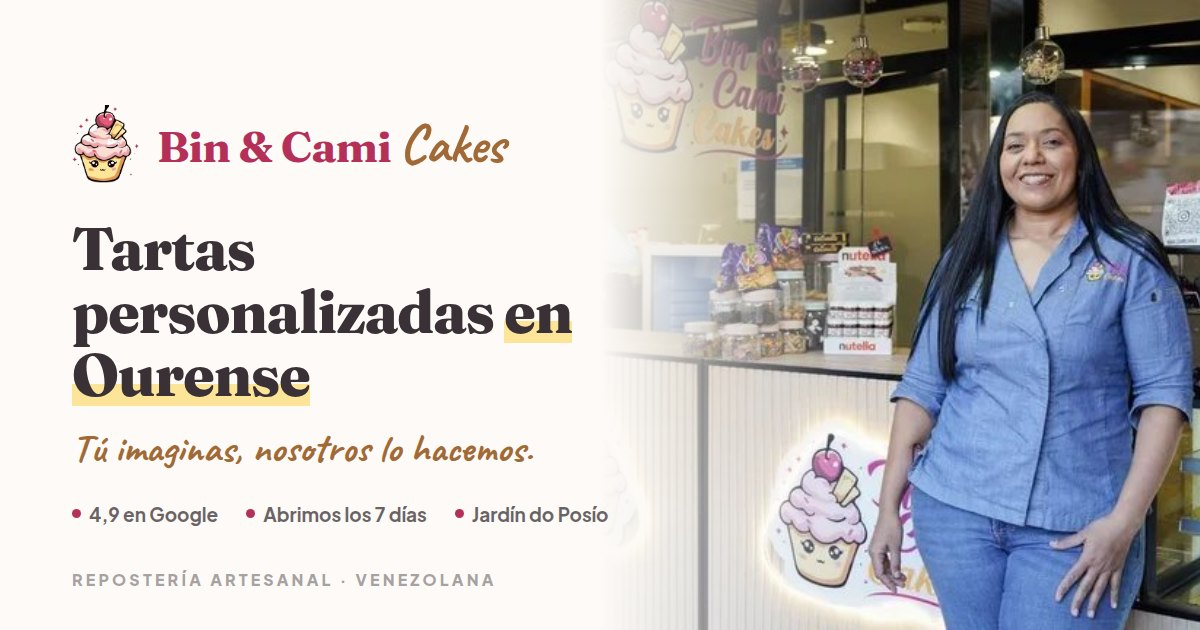
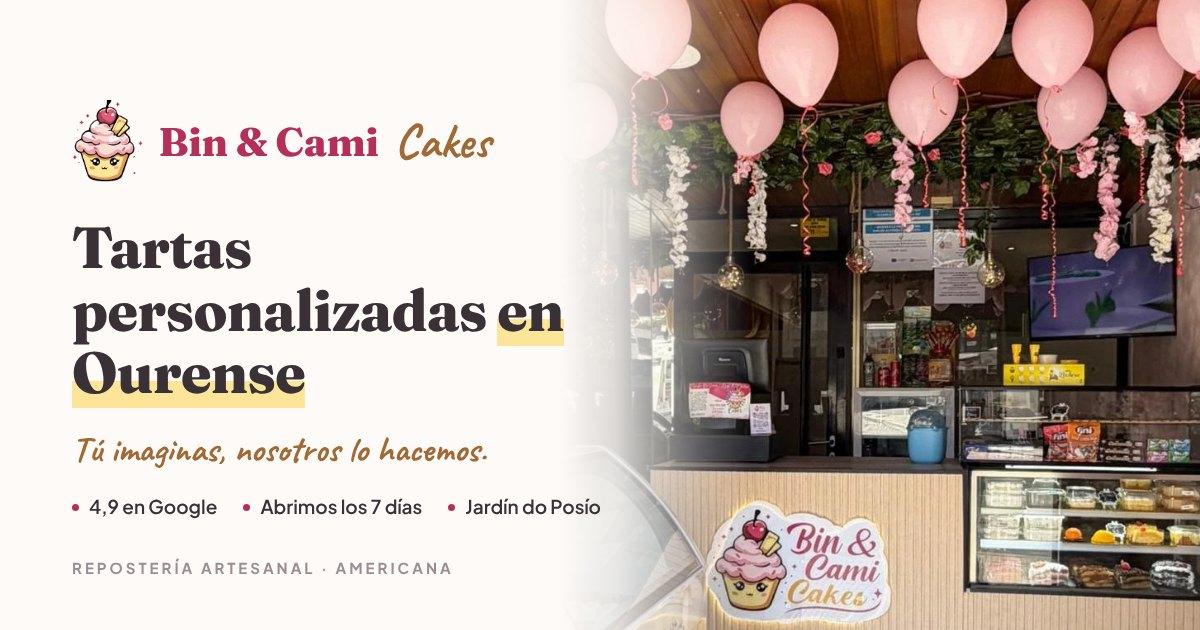
Vista previa al compartir: foto del mostrador con globos, sin personas
Luisa pidió no salir en la imagen que aparece al pegar el enlace.
og-image.jpg usa ahora la foto de la inauguración y dice «americana»;
?v=2 para que WhatsApp no tire de la copia vieja.

Claude-Session: https://claude.ai/code/session_01WzCmdJrC9CprARBZ3vqpB7

diff --git a/bin-cami-cakes/mostrador.html b/bin-cami-cakes/mostrador.html
@@ -46,14 +46,14 @@
 <meta property="og:url" content="https://bin-cami-cakes.vercel.app/mostrador">
 <meta property="og:title" content="Tres leches, golfeados y piñitas en Ourense | Bin &amp; Cami Cakes">
 <meta property="og:description" content="Tres leches, golfeados, piñitas, cookies y cuchareables, hechos cada día en el mostrador de Bin &amp; Cami Cakes, junto al Jardín do Posío (Ourense).">
-<meta property="og:image" content="https://bin-cami-cakes.vercel.app/assets/og-image.jpg">
+<meta property="og:image" content="https://bin-cami-cakes.vercel.app/assets/og-image.jpg?v=2">
 <meta property="og:image:width" content="1200">
 <meta property="og:image:height" content="630">
 <meta property="og:image:alt" content="Bin &amp; Cami Cakes · tartas personalizadas en Ourense">
 <meta name="twitter:card" content="summary_large_image">
 <meta name="twitter:title" content="Tres leches, golfeados y piñitas en Ourense | Bin &amp; Cami Cakes">
 <meta name="twitter:description" content="Tres leches, golfeados, piñitas, cookies y cuchareables, hechos cada día en el mostrador de Bin &amp; Cami Cakes, junto al Jardín do Posío (Ourense).">
-<meta name="twitter:image" content="https://bin-cami-cakes.vercel.app/assets/og-image.jpg">
+<meta name="twitter:image" content="https://bin-cami-cakes.vercel.app/assets/og-image.jpg?v=2">
 
 <!-- El logo es más alto que ancho (191×222): puesto tal cual de favicon el
      navegador lo aplastaba. Los iconos van cuadrados, con el logo centrado. -->
@@ -150,7 +150,7 @@
   "description": "Pastelería artesanal en Ourense especializada en tartas personalizadas y repostería americana: tres leches, golfeados, piñitas y cookies.",
   "url": "https://bin-cami-cakes.vercel.app/",
   "logo": "https://bin-cami-cakes.vercel.app/assets/logo.png",
-  "image": "https://bin-cami-cakes.vercel.app/assets/og-image.jpg",
+  "image": "https://bin-cami-cakes.vercel.app/assets/og-image.jpg?v=2",
   "telephone": "+34656584027",
   "priceRange": "€€",
   "servesCuisine": ["Repostería", "Repostería americana"],

diff --git a/bin-cami-cakes/dist/mostrador.html b/bin-cami-cakes/dist/mostrador.html
@@ -21,14 +21,14 @@
 <meta property="og:url" content="https://binycamicakes.es/mostrador">
 <meta property="og:title" content="Tres leches, golfeados y piñitas en Ourense | Bin &amp; Cami Cakes">
 <meta property="og:description" content="Tres leches, golfeados, piñitas, cookies y cuchareables, hechos cada día en el mostrador de Bin &amp; Cami Cakes, junto al Jardín do Posío (Ourense).">
-<meta property="og:image" content="https://binycamicakes.es/assets/og-image.jpg">
+<meta property="og:image" content="https://binycamicakes.es/assets/og-image.jpg?v=2">
 <meta property="og:image:width" content="1200">
 <meta property="og:image:height" content="630">
 <meta property="og:image:alt" content="Bin &amp; Cami Cakes · tartas personalizadas en Ourense">
 <meta name="twitter:card" content="summary_large_image">
 <meta name="twitter:title" content="Tres leches, golfeados y piñitas en Ourense | Bin &amp; Cami Cakes">
 <meta name="twitter:description" content="Tres leches, golfeados, piñitas, cookies y cuchareables, hechos cada día en el mostrador de Bin &amp; Cami Cakes, junto al Jardín do Posío (Ourense).">
-<meta name="twitter:image" content="https://binycamicakes.es/assets/og-image.jpg">
+<meta name="twitter:image" content="https://binycamicakes.es/assets/og-image.jpg?v=2">
 
 <link rel="icon" type="image/png" sizes="192x192" href="assets/favicon.png">
 <link rel="apple-touch-icon" sizes="180x180" href="assets/icono-180.png">
@@ -80,7 +80,7 @@
   "description": "Pastelería artesanal en Ourense especializada en tartas personalizadas y repostería americana: tres leches, golfeados, piñitas y cookies.",
   "url": "https://binycamicakes.es/",
   "logo": "https://binycamicakes.es/assets/logo.png",
-  "image": "https://binycamicakes.es/assets/og-image.jpg",
+  "image": "https://binycamicakes.es/assets/og-image.jpg?v=2",
   "telephone": "+34656584027",
   "priceRange": "€€",
   "servesCuisine": ["Repostería", "Repostería americana"],

diff --git a/bin-cami-cakes/index.html b/bin-cami-cakes/index.html
@@ -44,14 +44,14 @@
 <meta property="og:url" content="https://bin-cami-cakes.vercel.app/">
 <meta property="og:title" content="Tartas Personalizadas en Ourense | Bin &amp; Cami Cakes">
 <meta property="og:description" content="Tú imaginas, nosotros lo hacemos. Tartas a medida y repostería americana artesanal en el Jardín do Posío, Ourense.">
-<meta property="og:image" content="https://bin-cami-cakes.vercel.app/assets/og-image.jpg">
+<meta property="og:image" content="https://bin-cami-cakes.vercel.app/assets/og-image.jpg?v=2">
 <meta property="og:image:width" content="1200">
 <meta property="og:image:height" content="630">
 <meta property="og:image:alt" content="Bin &amp; Cami Cakes · tartas personalizadas en Ourense">
 <meta name="twitter:card" content="summary_large_image">
 <meta name="twitter:title" content="Tartas Personalizadas en Ourense | Bin &amp; Cami Cakes">
 <meta name="twitter:description" content="Tú imaginas, nosotros lo hacemos. Repostería artesanal americana en Ourense.">
-<meta name="twitter:image" content="https://bin-cami-cakes.vercel.app/assets/og-image.jpg">
+<meta name="twitter:image" content="https://bin-cami-cakes.vercel.app/assets/og-image.jpg?v=2">
 
 <!-- El logo es más alto que ancho (191×222): puesto tal cual de favicon el
      navegador lo aplastaba. Los iconos van cuadrados, con el logo centrado. -->
@@ -148,7 +148,7 @@
   "description": "Pastelería artesanal en Ourense especializada en tartas personalizadas y repostería americana: tres leches, golfeados, piñitas y cookies.",
   "url": "https://bin-cami-cakes.vercel.app/",
   "logo": "https://bin-cami-cakes.vercel.app/assets/logo.png",
-  "image": "https://bin-cami-cakes.vercel.app/assets/og-image.jpg",
+  "image": "https://bin-cami-cakes.vercel.app/assets/og-image.jpg?v=2",
   "telephone": "+34656584027",
   "priceRange": "€€",
   "servesCuisine": ["Repostería", "Repostería americana"],

diff --git a/bin-cami-cakes/dist/index.html b/bin-cami-cakes/dist/index.html
@@ -21,14 +21,14 @@
 <meta property="og:url" content="https://binycamicakes.es/">
 <meta property="og:title" content="Tartas Personalizadas en Ourense | Bin &amp; Cami Cakes">
 <meta property="og:description" content="Tú imaginas, nosotros lo hacemos. Tartas a medida y repostería americana artesanal en el Jardín do Posío, Ourense.">
-<meta property="og:image" content="https://binycamicakes.es/assets/og-image.jpg">
+<meta property="og:image" content="https://binycamicakes.es/assets/og-image.jpg?v=2">
 <meta property="og:image:width" content="1200">
 <meta property="og:image:height" content="630">
 <meta property="og:image:alt" content="Bin &amp; Cami Cakes · tartas personalizadas en Ourense">
 <meta name="twitter:card" content="summary_large_image">
 <meta name="twitter:title" content="Tartas Personalizadas en Ourense | Bin &amp; Cami Cakes">
 <meta name="twitter:description" content="Tú imaginas, nosotros lo hacemos. Repostería artesanal americana en Ourense.">
-<meta name="twitter:image" content="https://binycamicakes.es/assets/og-image.jpg">
+<meta name="twitter:image" content="https://binycamicakes.es/assets/og-image.jpg?v=2">
 
 <link rel="icon" type="image/png" sizes="192x192" href="assets/favicon.png">
 <link rel="apple-touch-icon" sizes="180x180" href="assets/icono-180.png">
@@ -80,7 +80,7 @@
   "description": "Pastelería artesanal en Ourense especializada en tartas personalizadas y repostería americana: tres leches, golfeados, piñitas y cookies.",
   "url": "https://binycamicakes.es/",
   "logo": "https://binycamicakes.es/assets/logo.png",
-  "image": "https://binycamicakes.es/assets/og-image.jpg",
+  "image": "https://binycamicakes.es/assets/og-image.jpg?v=2",
   "telephone": "+34656584027",
   "priceRange": "€€",
   "servesCuisine": ["Repostería", "Repostería americana"],

diff --git a/bin-cami-cakes/docs/auditoria-legal.md b/bin-cami-cakes/docs/auditoria-legal.md
@@ -226,7 +226,7 @@ corriente. Si algún día entra una tarta con licor, este bloque se reabre.
 | Mapa atribuido | — | ✅ | Es el iframe oficial de Google Maps |
 | Emblema de **Lamborghini** en una tarta | Ley 17/2001 de Marcas | ✅ **decidido por Luisa (27/10)** | `assets/tarta-tematica.*`, en portada y galería |
 | **Totoro** (Studio Ghibli) y **ROBLOX** | TRLPI / Marcas | ✅ **decidido por Luisa (27/10)** | `assets/tarta-06.*` y `tarta-08.*` |
-| **Nutella** y globos de **Nintendo** al fondo | Marcas | ✅ **decidido por Luisa (27/10)** | `assets/pastelera.*` y `assets/og-image.jpg` |
+| **Nutella** y globos de **Nintendo** al fondo | Marcas | ✅ **decidido por Luisa (27/10)** | `assets/pastelera.*` (desde el 16/11 ya no en `og-image.jpg`) |
 | **Dragon Ball**, escudo del **FC Barcelona**, casco **LS2** con el nombre «Efren 50» | Marcas / RGPD (nombre del cliente) | ✅ **aprobado por Luisa (27/10)** | `assets/tarta-20.*`, `tarta-21.*` (también en el carrusel) y `tarta-22.*` |
 
 Dejo constancia de una matización honesta: fotografiar una tarta que una clienta encargó con un
@@ -247,7 +247,7 @@ comercial propio, y la decisión de dejarlo o no es de Luisa, no mía.
 | Punto | Norma (sin verificar) | Estado | Dónde está |
 |---|---|---|---|
 | Cara reconocible en la web | LO 1/1982 arts. 2 y 7.5 | ✅ **concedido** | `assets/pastelera.webp`, en «Quiénes somos» |
-| **La misma cara en la imagen que se comparte** | LO 1/1982 | ✅ **concedido** | `assets/og-image.jpg`: es lo que sale al pegar el enlace en WhatsApp |
+| ~~La misma cara en la imagen que se comparte~~ | LO 1/1982 | ✅ **ya no aplica (16/11)** | Luisa pidió no salir en `assets/og-image.jpg` (la vista previa de WhatsApp). Ahora lleva la foto del mostrador con globos de la inauguración, sin personas |
 | Nombres de criaturas en las tartas | RGPD / LO 1/1982 | ✅ **concedido** | `tarta-04` («Rita 4 años»), `tarta-05` («Jonathan»), `tarta-08` («Santiago») |
 
 > **19/10/2026 — Brian comunica que todos los permisos están concedidos.** Las fotos se
